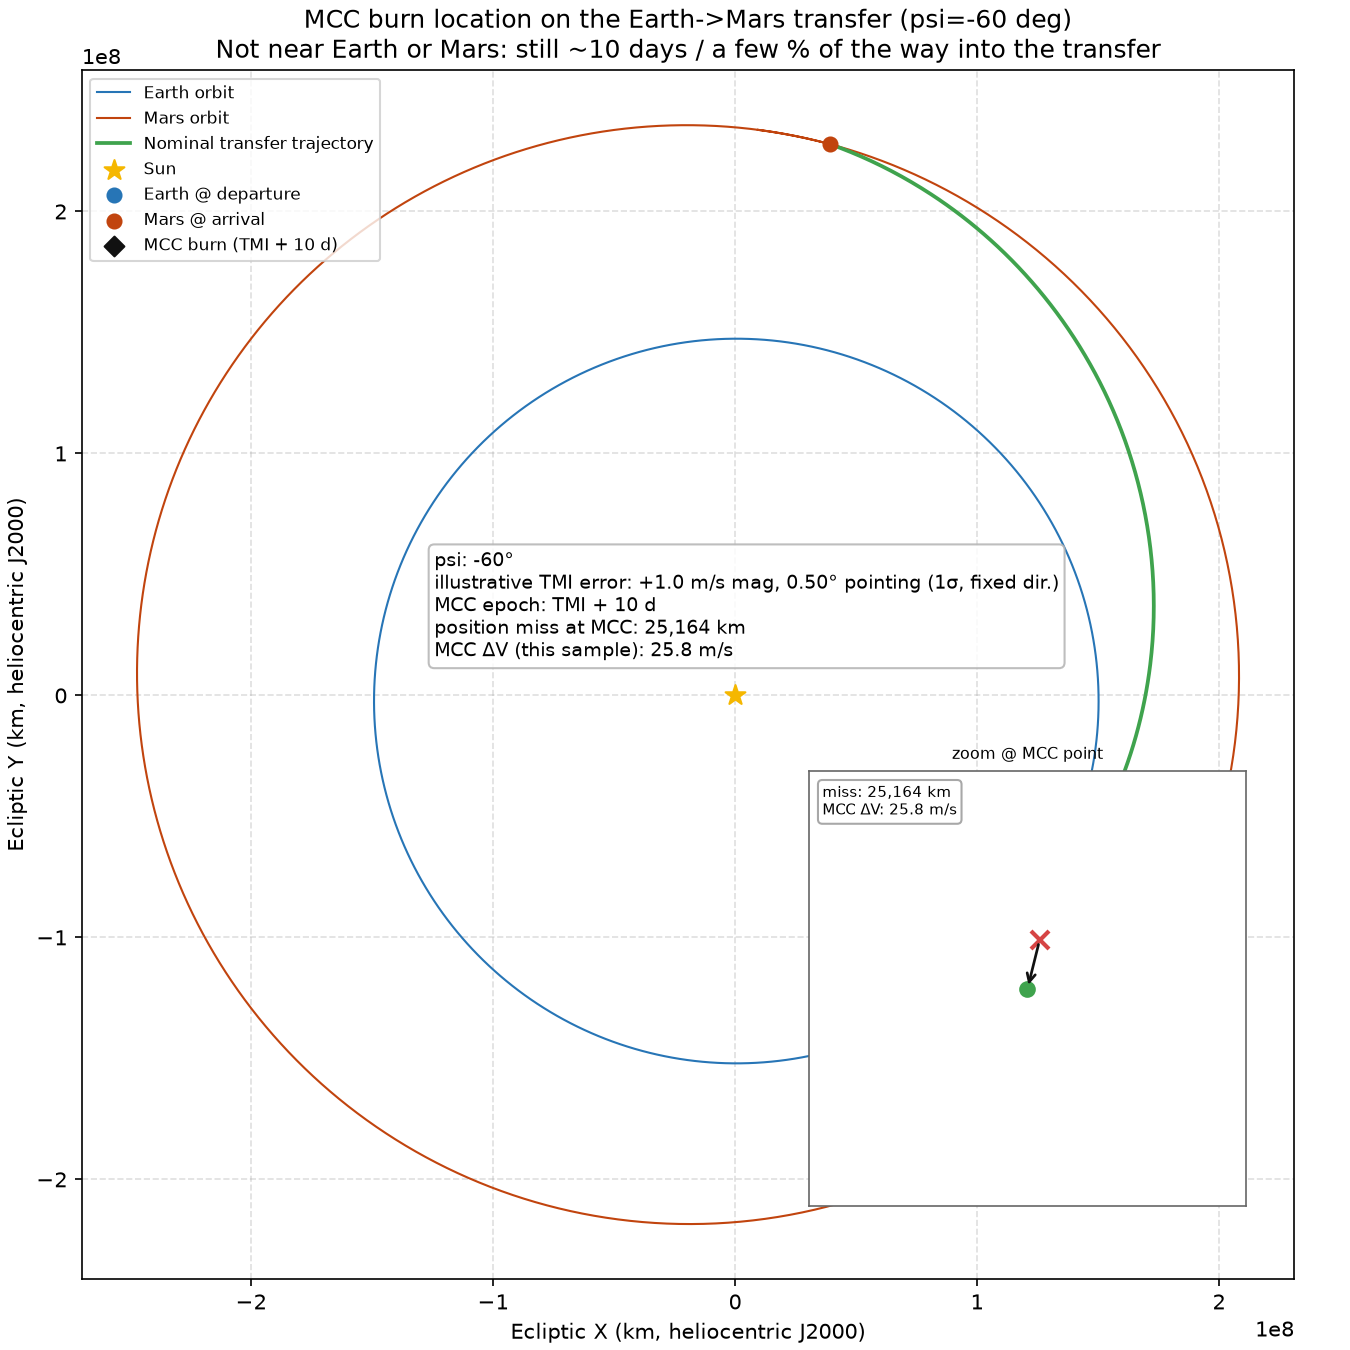
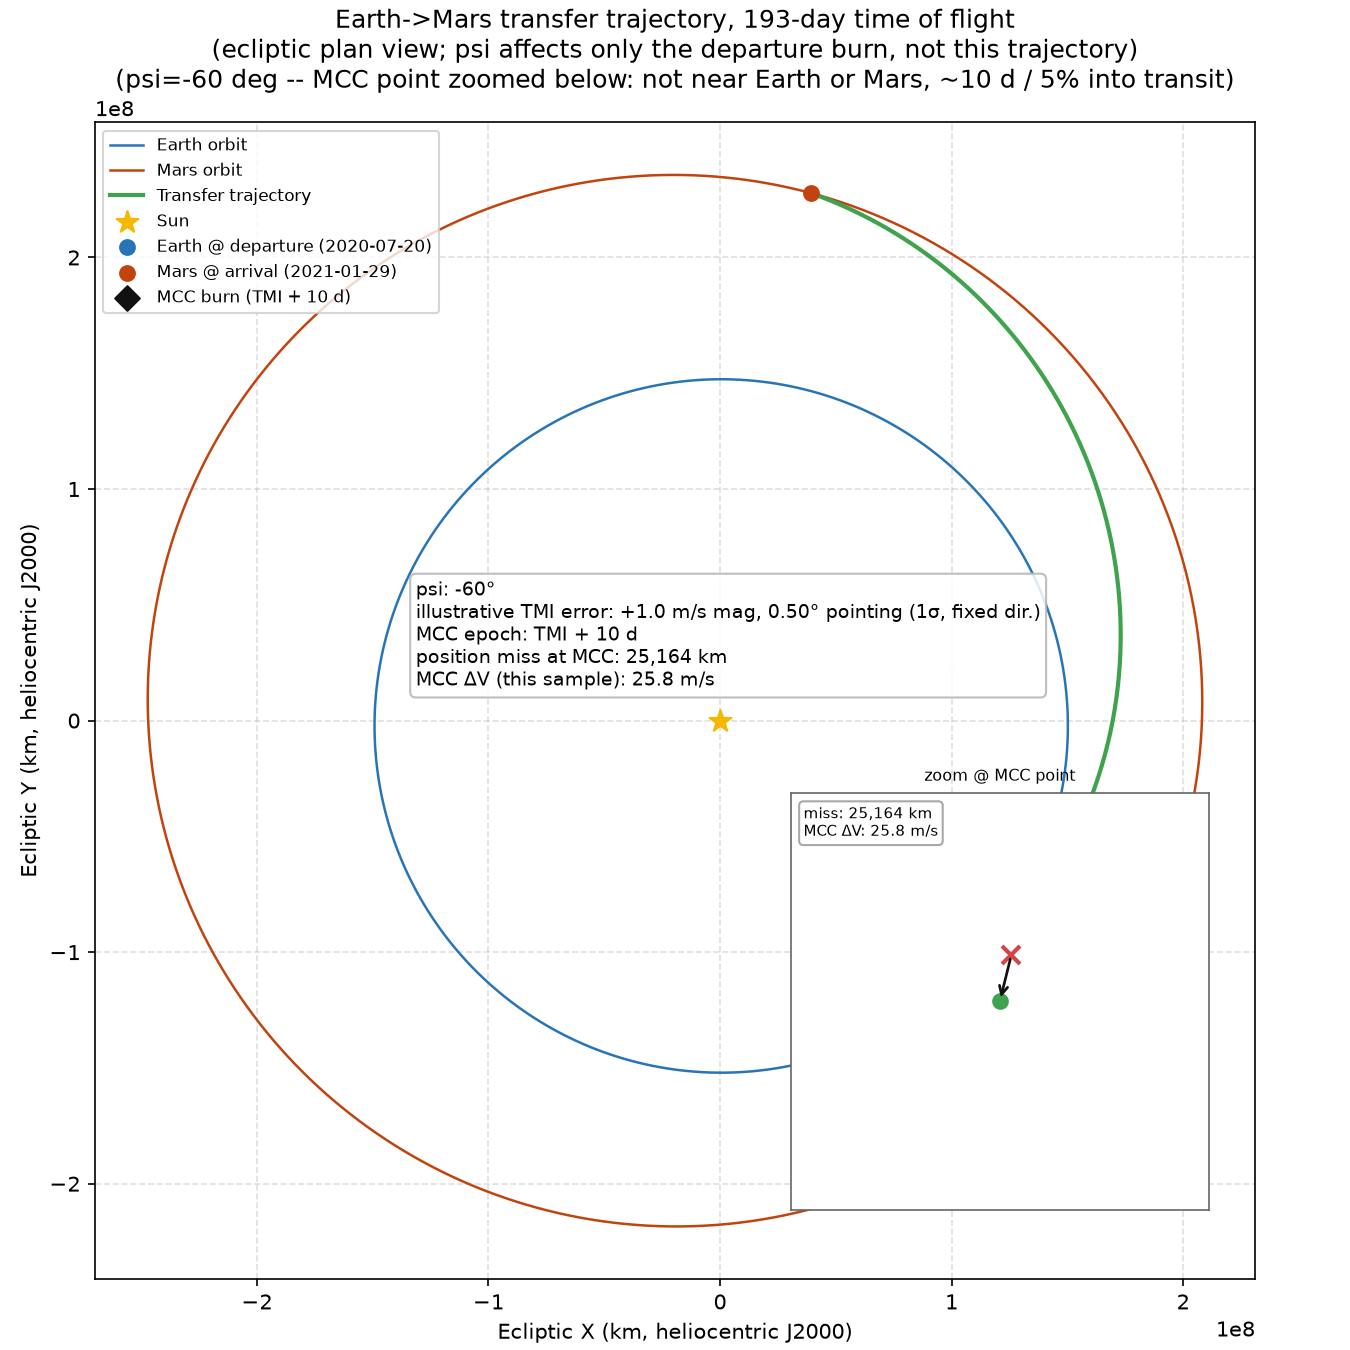
Mark MCC point on the main trajectory chart; document why the departure burn is never tangent
- trajectory_overview.py: draw() now takes an optional mcc_point_ecl marker
  and show_info_box flag; the "big" heliocentric chart marks the nominal
  MCC point (psi-independent, since psi only changes the departure burn).
- mcc_trajectory.py: refactored to reuse trajectory_overview.draw() for its
  base layer instead of duplicating the track-plotting code, adding only
  the MCC-specific inset and info box on top.
- README: added a derivation of why the burn is off-tangent at every psi,
  including psi=0 (v_Earth in-plane). Key fact, confirmed numerically: the
  orbital-plane normal depends only on v_Earth and is IDENTICAL across the
  whole psi sweep -- psi moves the burn point within one fixed plane, it
  never re-orients the plane. Since v_infinity sits 14.7 deg from v_Earth
  (7.9 deg of that out of that fixed plane) for the baseline transfer, no
  psi can produce a tangential burn; psi only controls how much the burn
  must fight that fixed misalignment (12.4 deg deviation at the psi=-60
  optimum vs. 40.4 deg at psi=0).

diff --git a/mars-transfer-orbit-model/charts/mcc_trajectory.py b/mars-transfer-orbit-model/charts/mcc_trajectory.py
@@ -2,9 +2,12 @@
 it, answering "is that where the burns are?" -- yes: MCC_EPOCH_OFFSET_DAYS
 after TMI, which is still deep in the transfer, not near Earth or Mars.
 
-The position miss this model corrects (tens of thousands of km) is
-invisible at heliocentric scale (spacecraft is ~150 million km out by then)
--- hence the zoomed inset around the MCC point.
+Reuses trajectory_overview.draw() for the base layer (Earth/Mars orbits,
+transfer trajectory, Sun/Earth/Mars markers) instead of duplicating that
+track-plotting code, then adds the MCC-specific layer: the burn marker and
+a zoomed inset, since the position miss this model corrects (tens of
+thousands of km) is invisible at heliocentric scale (spacecraft is ~150
+million km out by then).
 """
 import sys
 from pathlib import Path
@@ -12,11 +15,12 @@ from pathlib import Path
 import numpy as np
 
 sys.path.insert(0, str(Path(__file__).resolve().parent.parent))
+sys.path.insert(0, str(Path(__file__).resolve().parent))  # for trajectory_overview (sibling module)
 
 import config
 import frames
-import kepler
 import mcc
+import trajectory_overview as traj
 from viz import render, info_box
 
 # A single, deterministic, illustrative 1-sigma execution error (not a random
@@ -26,11 +30,6 @@ from viz import render, info_box
 ILLUSTRATIVE_DMAG_KMS = config.MCC_INJECTION_DV_ERROR_KMS
 ILLUSTRATIVE_TIP_RAD = np.radians(config.MCC_INJECTION_POINTING_ERROR_DEG)
 ILLUSTRATIVE_TILT_RAD = 0.0
-
-
-def _track(r0, v0, mu, t_end_s, n=300):
-    ts = np.linspace(0, t_end_s, n)
-    return np.array([kepler.propagate(r0, v0, t, mu)[0] for t in ts])
 
 
 def draw(ax, results, psi_deg=None):
@@ -43,43 +42,14 @@ def draw(ax, results, psi_deg=None):
         baseline.r_mars_eq, baseline.tof_days,
         ILLUSTRATIVE_DMAG_KMS, ILLUSTRATIVE_TIP_RAD, ILLUSTRATIVE_TILT_RAD,
     )
-
-    r_earth_ecl = frames.eq_to_ecl(baseline.r_earth_eq)
-    v_earth_ecl = frames.eq_to_ecl(baseline.v_earth_eq)
-    r_mars_ecl = frames.eq_to_ecl(baseline.r_mars_eq)
-    v_mars_ecl = frames.eq_to_ecl(baseline.v_mars_eq)
-    v_transfer_dep_ecl = frames.eq_to_ecl(baseline.v_transfer_dep_eq)
-
-    earth_track = _track(r_earth_ecl, v_earth_ecl, config.GM_SUN, 2 * np.pi * np.sqrt(
-        np.linalg.norm(r_earth_ecl) ** 3 / config.GM_SUN))
-    mars_track = _track(r_mars_ecl, v_mars_ecl, config.GM_SUN, 2 * np.pi * np.sqrt(
-        np.linalg.norm(r_mars_ecl) ** 3 / config.GM_SUN))
-
-    tof_s = baseline.tof_days * 86400.0
-    transfer_track = _track(r_earth_ecl, v_transfer_dep_ecl, config.GM_SUN, tof_s, n=400)
-
-    mcc_epoch_s = config.MCC_EPOCH_OFFSET_DAYS * 86400.0
     r_mcc_nom_ecl = frames.eq_to_ecl(corr.r_mcc_nominal)
     r_mcc_act_ecl = frames.eq_to_ecl(corr.r_mcc_actual)
 
-    ax.plot(earth_track[:, 0], earth_track[:, 1], color="#2775B6", lw=1.0, label="Earth orbit")
-    ax.plot(mars_track[:, 0], mars_track[:, 1], color="#C1440E", lw=1.0, label="Mars orbit")
-    ax.plot(transfer_track[:, 0], transfer_track[:, 1], color="#3FA34D", lw=1.8,
-            label="Nominal transfer trajectory")
-    ax.scatter([0], [0], color="#F5B700", s=100, marker="*", zorder=5, label="Sun")
-    ax.scatter([r_earth_ecl[0]], [r_earth_ecl[1]], color="#2775B6", s=45, zorder=5,
-               label="Earth @ departure")
-    ax.scatter([r_mars_ecl[0]], [r_mars_ecl[1]], color="#C1440E", s=45, zorder=5,
-               label="Mars @ arrival")
-    ax.scatter([r_mcc_nom_ecl[0]], [r_mcc_nom_ecl[1]], color="#111111", s=45, marker="D",
-               zorder=6, label=f"MCC burn (TMI + {config.MCC_EPOCH_OFFSET_DAYS:.0f} d)")
-
-    ax.set_xlabel("Ecliptic X (km, heliocentric J2000)")
-    ax.set_ylabel("Ecliptic Y (km, heliocentric J2000)")
-    ax.set_title(f"MCC burn location on the Earth->Mars transfer (psi={psi_deg:.0f} deg)\n"
-                 "Not near Earth or Mars: still ~10 days / a few % of the way into the transfer")
-    ax.set_aspect("equal")
-    ax.legend(loc="upper left", fontsize=8)
+    traj.draw(ax, results, mcc_point_ecl=r_mcc_nom_ecl,
+              title_suffix=f"\n(psi={psi_deg:.0f} deg -- MCC point zoomed below: "
+                            f"not near Earth or Mars, ~{config.MCC_EPOCH_OFFSET_DAYS:.0f} d "
+                            f"/ {100*config.MCC_EPOCH_OFFSET_DAYS/baseline.tof_days:.0f}% into transit)",
+              show_info_box=False)
 
     # zoomed inset around the MCC point: nominal vs uncorrected-actual position.
     # Native ax.inset_axes (fractions of the parent axes bbox) rather than the

diff --git a/mars-transfer-orbit-model/charts/trajectory_overview.py b/mars-transfer-orbit-model/charts/trajectory_overview.py
@@ -20,9 +20,10 @@ def _orbit_track(r0, v0, mu, n_points=300):
     return pts
 
 
-def draw(ax, results):
-    baseline = results.baseline
-
+def transfer_tracks(baseline):
+    """Ecliptic-frame Earth/Mars/transfer tracks for the baseline transfer --
+    the shared geometry both trajectory_overview and mcc_trajectory plot, so
+    it's computed in one place."""
     r_earth_ecl = frames.eq_to_ecl(baseline.r_earth_eq)
     v_earth_ecl = frames.eq_to_ecl(baseline.v_earth_eq)
     r_mars_ecl = frames.eq_to_ecl(baseline.r_mars_eq)
@@ -37,6 +38,16 @@ def draw(ax, results):
     transfer_track = np.array([
         kepler.propagate(r_earth_ecl, v_transfer_dep_ecl, t, config.GM_SUN)[0] for t in ts
     ])
+    return r_earth_ecl, r_mars_ecl, earth_track, mars_track, transfer_track
+
+
+def draw(ax, results, mcc_point_ecl=None, title_suffix="", show_info_box=True):
+    """mcc_point_ecl: optional (x, y, z) ecliptic position to mark as the MCC
+    burn (see charts/mcc_trajectory.py, which reuses this as its base layer).
+    show_info_box=False lets a caller (mcc_trajectory.py) substitute its own,
+    more specific info box instead of stacking two."""
+    baseline = results.baseline
+    r_earth_ecl, r_mars_ecl, earth_track, mars_track, transfer_track = transfer_tracks(baseline)
 
     ax.plot(earth_track[:, 0], earth_track[:, 1], color="#2775B6", lw=1.2, label="Earth orbit")
     ax.plot(mars_track[:, 0], mars_track[:, 1], color="#C1440E", lw=1.2, label="Mars orbit")
@@ -48,11 +59,15 @@ def draw(ax, results):
                label=f"Earth @ departure ({baseline.dep_epoch})")
     ax.scatter([r_mars_ecl[0]], [r_mars_ecl[1]], color="#C1440E", s=50, zorder=5,
                label=f"Mars @ arrival ({baseline.arr_epoch})")
+    if mcc_point_ecl is not None:
+        ax.scatter([mcc_point_ecl[0]], [mcc_point_ecl[1]], color="#111111", s=70, marker="D",
+                   zorder=6, label=f"MCC burn (TMI + {config.MCC_EPOCH_OFFSET_DAYS:.0f} d)")
 
     ax.set_xlabel("Ecliptic X (km, heliocentric J2000)")
     ax.set_ylabel("Ecliptic Y (km, heliocentric J2000)")
     ax.set_title(f"Earth->Mars transfer trajectory, {baseline.tof_days:.0f}-day time of flight\n"
-                 "(ecliptic plan view; psi affects only the departure burn, not this trajectory)")
+                 "(ecliptic plan view; psi affects only the departure burn, not this trajectory)"
+                 + title_suffix)
     ax.set_aspect("equal")
     ax.legend(loc="upper left", fontsize=8)
 
@@ -64,14 +79,26 @@ def draw(ax, results):
         "flyby turn angle": f"{results.flyby.turn_angle_deg:.1f}°",
         "flyby periapsis v": f"{results.flyby.periapsis_velocity_kms:.3f} km/s",
     }
-    text = "\n".join(f"{k}: {v}" for k, v in params.items())
-    info_box.add_info_box(ax, ax.figure, text, mode="on")
+    if show_info_box:
+        text = "\n".join(f"{k}: {v}" for k, v in params.items())
+        info_box.add_info_box(ax, ax.figure, text, mode="on")
+
+
+def nominal_mcc_point_ecl(baseline):
+    """Where the MCC burn sits on the NOMINAL trajectory (no injection error)
+    -- this only depends on the transfer itself, not on psi, since psi only
+    changes the departure burn, not the resulting heliocentric trajectory."""
+    r_earth_ecl = frames.eq_to_ecl(baseline.r_earth_eq)
+    v_transfer_dep_ecl = frames.eq_to_ecl(baseline.v_transfer_dep_eq)
+    mcc_dt_s = config.MCC_EPOCH_OFFSET_DAYS * 86400.0
+    r_mcc, _ = kepler.propagate(r_earth_ecl, v_transfer_dep_ecl, mcc_dt_s, config.GM_SUN)
+    return r_mcc
 
 
 def figures(results):
     def build():
         fig, ax = render.new_figure(figsize=(9, 9))
-        draw(ax, results)
+        draw(ax, results, mcc_point_ecl=nominal_mcc_point_ecl(results.baseline))
         return fig, config.OUTPUT_ROOT / "trajectory" / f"transfer_overview_{results.baseline.dep_epoch}.png"
     return [("trajectory_overview", build)]
 

diff --git a/mars-transfer-orbit-model/README.md b/mars-transfer-orbit-model/README.md
@@ -37,6 +37,39 @@ the MCC sensitivity depend on it. That's not a simplification; it falls out
 of the patched-conic construction exactly, and turned out to be one of the
 more interesting findings.
 
+### Why the burn is never actually tangent to the parking orbit
+
+It's tempting to assume ψ=0° (`v_Earth` in-plane) is the free lunch — but
+for the baseline transfer the burn is off-tangent at *every* ψ, including
+ψ=0°, and ψ=0° isn't even close to the minimum (it costs 7.48 km/s vs. the
+4.28 km/s optimum at ψ=-60°). The reason is a distinction that's easy to
+miss: **`n_hat` (the orbital-plane normal) is fixed by `v_Earth` alone and
+does not depend on ψ at all** — confirmed numerically, it's identical
+across the whole sweep. ψ only moves the burn point *within* that one fixed
+plane; it never re-orients the plane itself.
+
+A burn is tangent (the cheap, scalar-ΔV case) only when the required
+outgoing v∞ lies **in that same plane**. But v∞ is not `v_Earth` — it's
+`v_transfer,depart − v_Earth` from the Lambert solve, and for the baseline
+transfer it sits **14.7° away from `v_Earth`'s own direction**, with
+**7.9° of that lying out of the very plane `v_Earth` defines**. Since the
+plane's orientation never changes with ψ, that 7.9° gap can't be closed by
+picking a different ψ — it's a fixed misalignment tax paid by every burn in
+the family. What ψ actually controls is only how much *extra* the burn
+must fight that fixed 7.9° tilt: at ψ=-60° the required burn deviates only
+12.4° from the local tangential direction; at ψ=0° it's 40.4°; at ψ=+90° it's
+85.8° (nearly radial). ΔV tracks that deviation angle almost exactly.
+
+So the original intuition — "put `v_Earth` in the plane, that's obviously
+the cheap case" — implicitly assumes v∞ points the same way `v_Earth`
+does. It doesn't: Mars is ~1.85° inclined to the ecliptic and at a
+different heliocentric phase/distance, so the Lambert-required departure
+asymptote picks up a genuine 3D tilt away from `v_Earth` (the classical
+literature calls this the declination of the launch asymptote). Putting
+`v_Earth` in the plane guarantees only that *one* of the two relevant
+vectors is in-plane — and it's not the one a tangential burn actually
+needs.
+
 ## Pipeline
 
 1. **Ephemeris** (`ephemeris.py`) — Earth/Mars heliocentric state vectors,
